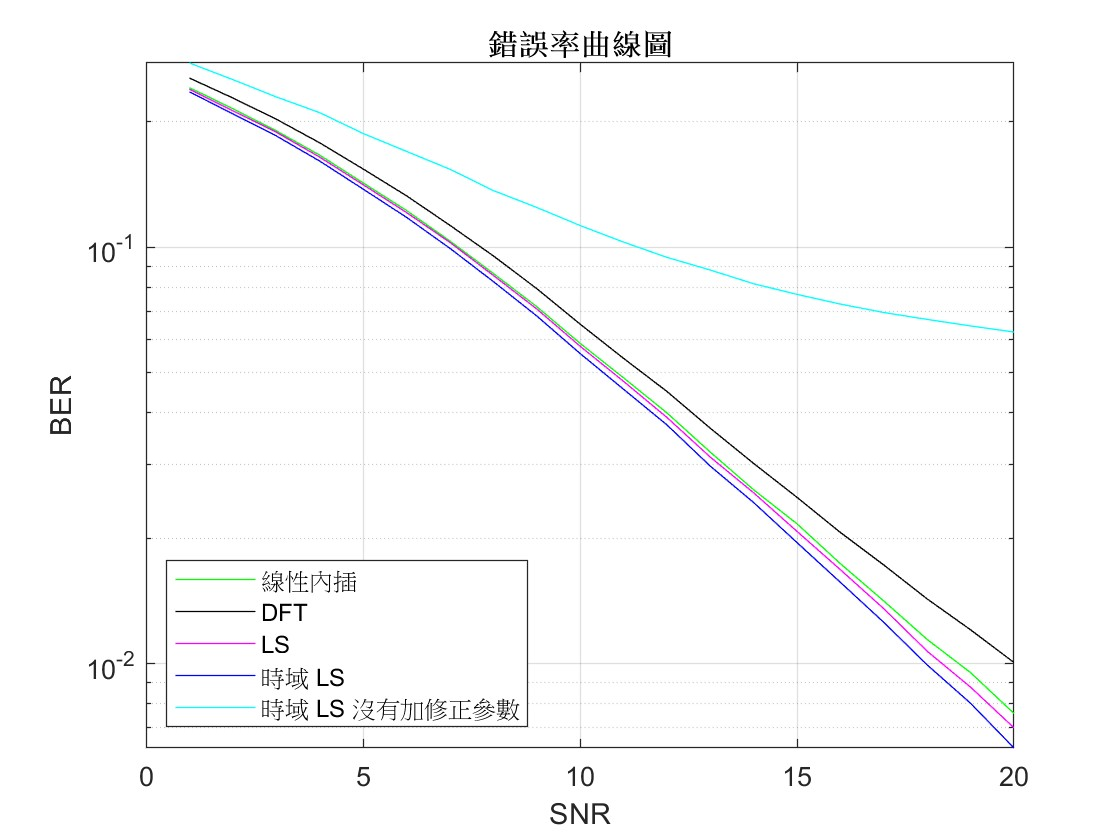
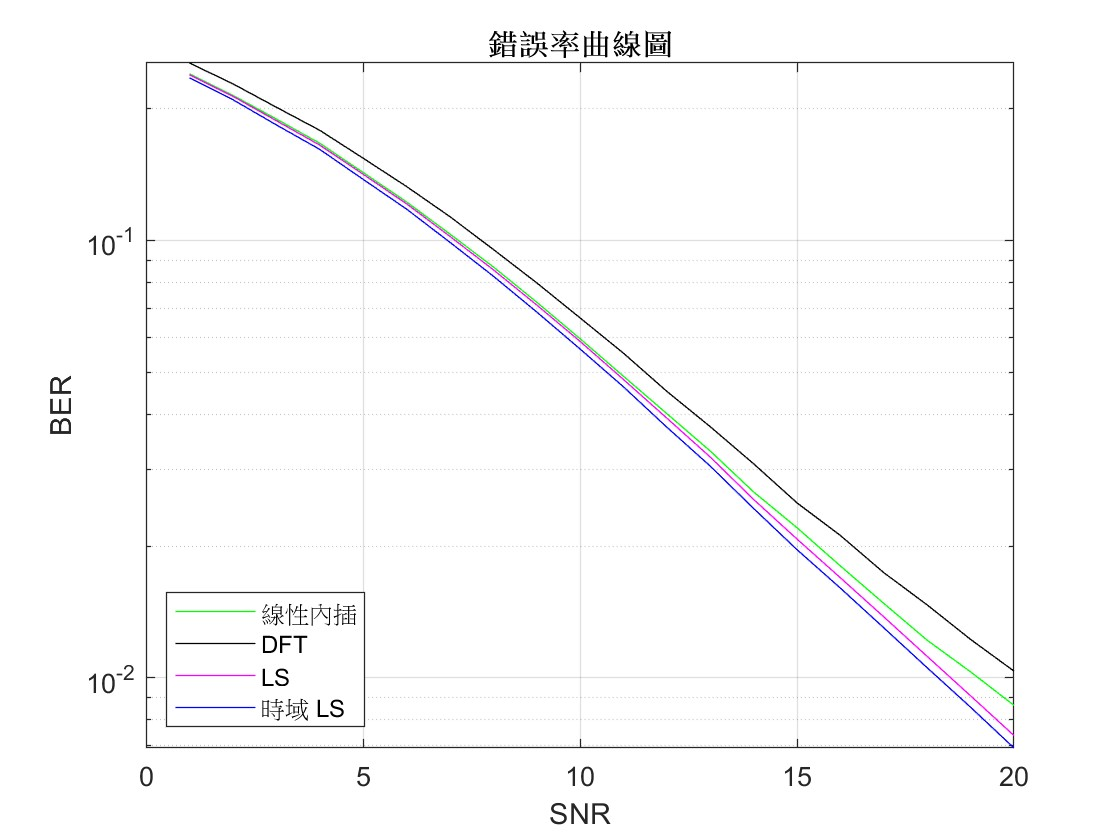
程式碼圖片標題修改

diff --git a/LS_LS2.m b/LS_LS2.m
@@ -466,18 +466,18 @@ LS2_e3=sum(error4)./20;
 
 figure;
 semilogy(db,LS_e1,'g-',db,LS_e2,'b-',db,LS_e3,'r-');
-title('錯誤率曲線圖');
+title('LS法錯誤率曲線圖');
 legend('最大通道延遲點數100點','最大通道延遲點數80點','最大通道延遲點數30點');
-xlabel('(dB)');
-ylabel('(log)');
+xlabel('SNR');
+ylabel('BER');
 grid;
 
 figure;
 semilogy(db,LS2_e1,'g-',db,LS2_e2,'b-',db,LS2_e3,'r-');
-title('錯誤率曲線圖');
+title('時域LS法錯誤率曲線圖');
 legend('最大通道延遲點數100點','最大通道延遲點數80點','最大通道延遲點數30點');
-xlabel('(dB)');
-ylabel('(BER)');
+xlabel('SNR');
+ylabel('BER');
 grid;
 
 

diff --git a/OFDM_100p_channel.m b/OFDM_100p_channel.m
@@ -77,7 +77,7 @@ end
 %20個通道
 for j = 1:20
     n = randn(1,100) + 1i * randn(1, 100);
-    g = exp(-0.001*[0:99]).*n;
+    g = exp(-0.05*[0:99]).*n;
     C = conv(c,g);
     E = (C*C')/43619;
     db = 1:20;
@@ -298,9 +298,9 @@ ylabel('BER');
 grid;
 
 figure;
-semilogy(db,Linear_e, 'g-',db,DFT_e, 'k-',db,LS_e,'m-',db,LS2_e, 'b-',db,LS20_e, 'c-');
+semilogy(db,Linear_e, 'g-',db,DFT_e, 'k-',db,LS_e,'m-',db,LS2_e, 'b-');
 title('錯誤率曲線圖');
-legend('線性內插','DFT','LS','時域 LS','時域 LS 沒有加修正參數','Location','southwest');
+legend('線性內插','DFT','LS','時域 LS','Location','southwest');
 xlabel('SNR');
 ylabel('BER');
 grid;
